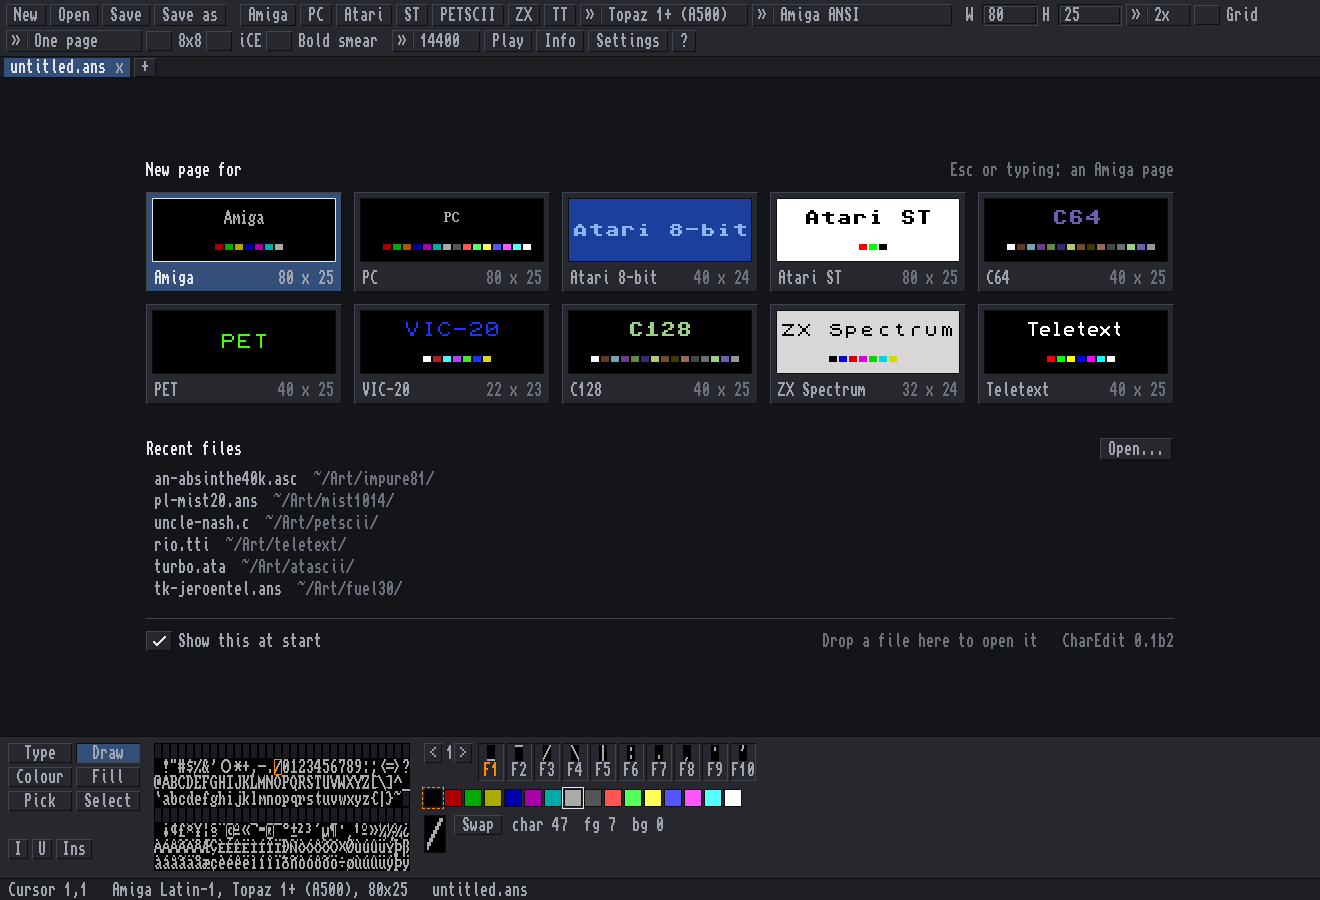
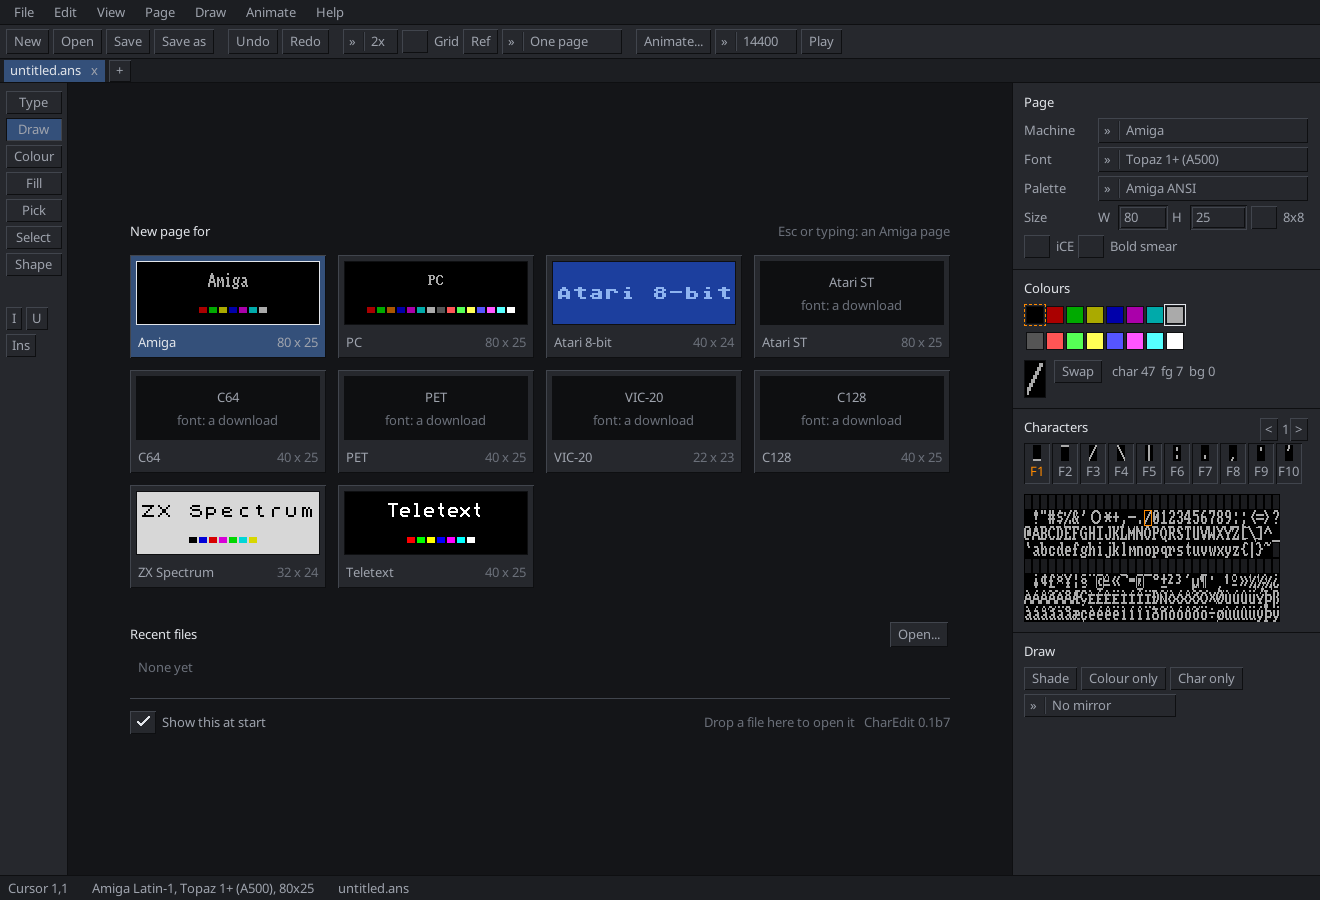
README for the new interface: the menu bar, the Studio and Focus layouts, the three themes and the interface font; new screenshots (the main one, the start screen, Workbench with the Animate menu, Light, Focus); the Go font in the licences.
Claude-Session: https://claude.ai/code/session_01RrqqqeRYWiqJ82p3hZX4f4

diff --git a/README.md b/README.md
@@ -11,11 +11,13 @@ and file formats.
 | | |
 |---|---|
 | ![Amiga ASCII in Topaz](docs/screenshots/amiga.png) | ![C64 PETSCII](docs/screenshots/c64.png) |
-| <sub>Amiga page in Topaz 2+: *aBSiNTHE 40K* by aNACHRONiST / iMPURE!ASCII1940 (2022), impure81 on 16colo.rs.</sub> | <sub>C64 PETSCII with a block selected (Mirror, Upside down, Turn, Invert): *Uncle Nash*, an example picture from Marq's PETSCII editor.</sub> |
+| <sub>Amiga page in Topaz 2+, the Workbench theme, the Animate menu open: *aBSiNTHE 40K* by aNACHRONiST / iMPURE!ASCII1940 (2022), impure81 on 16colo.rs.</sub> | <sub>C64 PETSCII with a block selected (Mirror, Upside down, Turn, Invert): *Uncle Nash*, an example picture from Marq's PETSCII editor.</sub> |
 | ![Teletext](docs/screenshots/teletext.png) | ![Atari ATASCII](docs/screenshots/atari.png) |
 | <sub>Teletext (BBC Micro Mode 7 / Ceefax): *Rio*, an example page from QTeletextMaker.</sub> | <sub>Atari 8-bit ATASCII: *Turbo* (TEXTPIC1_CAR), from the ATASCII collection at breakintochat.com.</sub> |
 | ![Two pages side by side](docs/screenshots/split.png) | ![CharView](docs/screenshots/viewer.png) |
 | <sub>Tabs, and two pages side by side (Ctrl+L).</sub> | <sub>CharView, the viewer: *Jeroen Tel* by The Knight / Fuel (2019), fuel30 on 16colo.rs.</sub> |
+| ![The Light theme](docs/screenshots/light.png) | ![The Focus layout](docs/screenshots/focus.png) |
+| <sub>The Light theme: *Jeroen Tel* by The Knight / Fuel (2019), fuel30 on 16colo.rs.</sub> | <sub>The Focus layout (the page as wide as the window, the gadgets under it) on a teletext page: *Rio*, from QTeletextMaker.</sub> |
 
 ![The start screen](docs/screenshots/start.png)
 
@@ -71,9 +73,14 @@ rows a second); these are remembered. Art wider than the window is shown smaller
 smooth. A folder gives every art file in it (.ans .asc .nfo .diz .txt .bin .seq
 .pet .ice ...). It never changes the editor's other settings.
 
-A native program (Go + SDL2, one binary; needs only the SDL2 library that every Linux desktop has). The whole
-interface is drawn in Topaz, kept dark and small so the art comes first; **Ctrl+H** hides every gadget.
-Press the **?** gadget for every key.
+A native program (Go + SDL2, one binary; needs only the SDL2 library that every Linux desktop has). Every
+command is in the menu bar (File, Edit, View, Page, Draw, Animate, Help) with its keys beside it; one toolbar
+row holds the everyday ones. Two layouts (View menu or Settings): **Studio**, the tools in a rail on the left and
+the page's settings, colours, characters and the tool's options in a panel on the right, and **Focus**, the page
+as wide as the window with the gadgets under it. Three themes: **Dark**, **Light** and **Workbench**. The
+interface text is the system's font by default, or the Go font, Topaz, or any .ttf / .otf, in sizes 11 to 20
+(Settings); the art always keeps its own fonts. **Ctrl+H** hides every gadget. **Help > Keys and mouse** (F12)
+lists every key.
 
 ## Build
 
@@ -471,7 +478,7 @@ The colour keys (Ctrl+0-7, Alt+0-7, Alt+U, Ctrl+D, Ctrl+Shift+X, Ctrl+E), Ctrl+a
 Right for columns, Ctrl+K crop and Ctrl+I info are the same in all of them. An action the other editor does not
 have keeps CharEdit's key unless the preset gave that key to another action; then it has no key until the keys
 file gives it one: Moebius: Half; PabloDraw: Turn, Invert, Onion, Fill, Half, shape style; TheDraw: Mirror, Turn,
-Invert, Pick, Half; ACiDDraw: Info (the Info button stays), Mirror, Turn, Fill, Half. What cannot be matched: the plain-letter block keys of Moebius and PabloDraw (M move, C
+Invert, Pick, Half; ACiDDraw: Info (File > Info stays), Mirror, Turn, Fill, Half. What cannot be matched: the plain-letter block keys of Moebius and PabloDraw (M move, C
 copy, F fill, R rotate, X / Y flip, S stamp ... while a block is up) and Moebius's tool letters (K B I P), because
 plain letters type in CharEdit (use the block buttons or Alt+H / V / R); Alt+F4 stays the window manager's, so
 F-key set 4 is Ctrl+F4 in every preset.
@@ -517,6 +524,8 @@ come back cell for cell after saving in their own format.
 | `animcost.go`, `animcost_ui.go` | animation detail levels, the cost of a saved animation (size, time at a speed, weight), Play's line timing, the Animate requester's cost, marks and preview at a speed |
 | `autosave.go` | autosave and offering it back, `.bak` on save, recent files |
 | `paths.go`, `keymods.go`, `platform_*.go` | per system: the settings and data folders, Cmd and AltGr, drives, is a CharEdit still running |
+| `menus.go`, `layout.go`, `panel.go` | the menu bar (built from the actions in keys.go), the Studio and Focus layouts, the drawing gadgets both arrange |
+| `theme.go`, `uifont.go` | the themes, the interface text through a face (Topaz, or TrueType / OpenType: the system's, the Go font, a file) |
 | `script.go` | `CHARCOAL_SCRIPT` test steps, for checking it headless with `SDL_VIDEODRIVER=offscreen` |
 | `web/` | the first version, called amiansi, that ran in the browser (Python server + HTML/JS), kept for reference |
 
@@ -527,6 +536,7 @@ Charcoal's own code is under the MIT licence (`LICENSE`), copyright Tobias Karls
 | Part | From | Licence |
 |---|---|---|
 | Amiga fonts (Topaz 1/1+/2/2+, MicroKnight/+, P0T-NOoDLE, mO'sOul) | TrueSchool's *Multi Platform Amiga Fonts* raw conversions, dMG/t!s^dS!, github.com/rewtnull/amigafonts (256 glyphs × 16 rows, each row of the 8×8 original doubled) | GPL with the font exception, `fonts/amigafonts-NOTICE.txt` |
+| The Go font (the interface's bundled font) | golang.org/x/image/font/gofont, by Bigelow & Holmes for the Go project | BSD 3-clause, in the module |
 | IBM VGA 8×16 | rendered from Px437_IBM_VGA_8x16, VileR, *The Ultimate Oldschool PC Font Pack* | CC BY-SA 4.0, `fonts/Px437-LICENSE.TXT` |
 | IBM EGA 8×14, IBM VGA 8×8, IBM VGA 8×16 code pages 850 and 866 (`fonts/IBM_*.f08/.f14/.f16`) | drawn from Bm437_IBM_EGA_8x14, Bm437_IBM_VGA_9x8 and BmPlus_IBM_VGA_8x16, VileR, *The Ultimate Oldschool PC Font Pack* v2.2 (int10h.org), by `tools/pcfonts.py` | CC BY-SA 4.0, `fonts/Px437-LICENSE.TXT` (the pack's licence) |
 | Atari 8-bit fonts | AltirraOS, from the Altirra emulator | all-permissive, `fonts/AltirraOS-LICENSE.txt` |

diff --git a/docs/HANDOFF.md b/docs/HANDOFF.md
@@ -420,6 +420,11 @@ CharView: n/p/arrows, q/Esc, a auto-scroll (smooth/step with s, speed [ ]), wide
 - Requesters (step 5, 2026-10-14): explanations go in the gadget's hint, not in paragraphs (the BBS
   "safe choice" text in Animate and Settings); secondary notes in cDim. While a requester is open the hint
   shows as a tooltip by the mouse (`drawTooltip`, main.go): a big requester covers the status line.
+- README screenshots in the new look: hero, start, amiga (Workbench theme, Animate menu), light, focus. Still in
+  the old look: c64, teletext, atari, split, viewer, frames, reference, fonteditor, animate-cost, animate-folder,
+  animate.gif. Headless recipe with the prefs written first: an absolute XDG_CONFIG_HOME with
+  charcoal/prefs.json holding `"c64asked": true` (no first-run requester), `width`/`height`, `theme`, `ui_layout`.
+  An 80-column page at 2x needs about 1720 pixels of window in the Studio layout.
 - Sources: 16colo.rs packs and tags, asciiarena.se (sitemap; files at /collections/<name>/<file>),
   ~/Amiga/BBS/BBS Style (412 files), NAS /mnt/nas/home/Unsorted/Junk/Latex/Petscii* (with the PETSCII editor's
   own PNGs: rendering is pixel-identical). **Not csdb.dk and not zxart.ee files: their robots.txt forbid it.**
